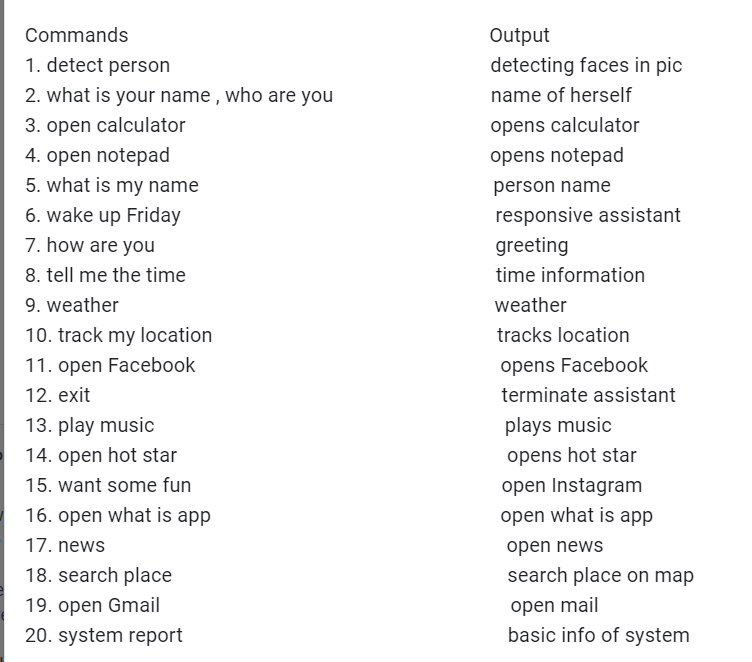
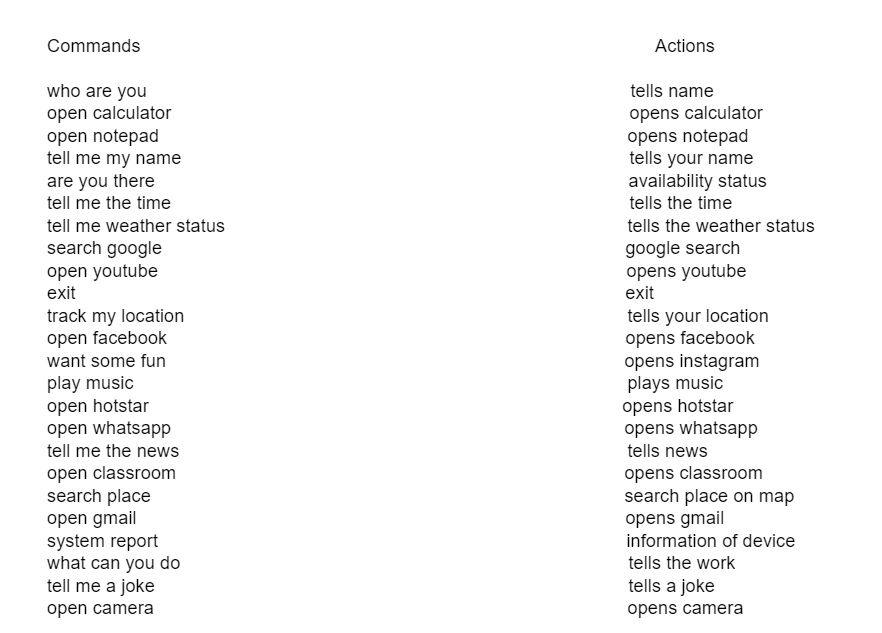
first commit

Changed region(s): [[0.0, 0.0, 0.2753, 1.0], [0.6423, 0.03, 0.9176, 0.9905], [0.3059, 0.1201, 0.4282, 0.1801]]

diff --git a/friday.py b/friday.py
@@ -30,12 +30,13 @@ import cv2
 from googletrans import Translator
 import pyjokes
 import warnings
-import PyPDF2
+#import PyPDF2
 
 
 
 if (success == "False"):
     engine_speak("Unauthorised person")
+    time.sleep(2)
     exit()
 
 
@@ -61,7 +62,7 @@ def engine_speak(text):
     engine.say(text)
     engine.runAndWait()
 
-
+'''
 def alarm():
     import datetime
     from playsound import playsound
@@ -70,7 +71,7 @@ def alarm():
     current_min = now.minute
     if current_hour == 6 and current_min == 40:
        playsound('C:\\Users\\SHIVRAJ\\Desktop\\Jarvis\\jarvis_alarm.wav')
-
+'''
 def wishMe():
     hour = datetime.datetime.now().hour
     if hour>=0 and hour<12:
@@ -156,12 +157,12 @@ def classify_face(im):
     cv2.waitKey(0)
     cv2.destroyAllWindows()
     return face_names
-
+'''
 def detectperson():
     engine_speak("detecting sir")
     classify_face("Test/test.jpg")
     engine_speak("detected")
-
+'''
 def telltime():
     now = datetime.datetime.now()
     current_time = now.strftime("%H:%M")
@@ -310,7 +311,7 @@ def audiobook():
     from_page = pdfReader.getPage(7)
     text = from_page.extractText()
     engine_speak(text)
-'''
+
 def todolist():
     todolist = []
     listtitle = record_audio("what do u want to call the list sir")
@@ -324,17 +325,17 @@ def todolist():
         if(i != ""):
            tasks.append(i)
         print(tasks)
-
+'''
 def respond(voice_data):
-
+    '''
     # 1: detect faces 
-    if there_exists(["detect person","detect","person"]):
+    if there_exists(["detect person"]):
         detectperson()
-
+    '''
     # 2: name(assistant)
-    if there_exists(["what is your name","who are you","your name"]):
+    if there_exists(["who are you"]):
         if person_obj.name:
-            engine_speak(f"My name is {asis_obj.name}")
+            engine_speak(f"My name is {asis_obj.name} i am your virtual assistant")
 
     # 3: calculator
     if there_exists(["open calculator"]):
@@ -345,23 +346,23 @@ def respond(voice_data):
         subprocess.Popen('C:\\Windows\\System32\\notepad.exe')
 
     # 5: name(person)
-    if there_exists(["my name"]):
+    if there_exists(["tell me my name"]):
         engine_speak("Your name must be " + person_obj.name)
 
     # 6: test of friday's speed
-    if there_exists(["friday","are you there"]):
+    if there_exists(["are you there"]):
         engine_speak("always in your service sir")
-
+    '''
     # 7: greeting(assistant)
     if there_exists(["how are you"]):
         engine_speak("I'm very well, thanks for asking " + person_obj.name)
-
+    '''
     # 8: time
     if there_exists(["tell me the time"]):
         telltime()
 
     #9: weather
-    if there_exists(["weather"]):
+    if there_exists(["tell me weather status"]):
         tellweather()
 
     #10: google something
@@ -371,11 +372,11 @@ def respond(voice_data):
     #11: search something on youtube
     if there_exists(["open youtube"]):
         openyoutube()
-
+    '''
     #12: open command prompt
     if there_exists(["cmd"]):
         os.system("start cmd")
-
+    '''
     # 13: exit
     if there_exists(["exit"]):
         engine_speak("enjoy your day sir,bye")
@@ -406,7 +407,7 @@ def respond(voice_data):
         openwhatsapp()
 
     #20: news
-    if there_exists(["news"]):
+    if there_exists(["tell me the news"]):
         news()
 
     #21: classroom
@@ -438,7 +439,7 @@ def respond(voice_data):
     if there_exists(["what can you do"]):
         engine_speak("I can google,open websites,search place on map, for all commands i'm opening commands chart sir")
         work()
-
+    '''
     #26: detect object
     if there_exists(["detect this"]):
         engine_speak("detecting sir")
@@ -446,7 +447,7 @@ def respond(voice_data):
         engine_speak("objects detected")
         clear = lambda: os.system('cls')
         clear()
-
+    '''
 
     #27: tell me a joke
     if there_exists(["tell me a joke"]):
@@ -471,15 +472,11 @@ def respond(voice_data):
     if there_exists(["audiobook"]):
         audiobook()
     '''
-    #30: greet someone
-    if there_exists(["meet sumit"]):
-        voice_data = voice_data.replace("meet","")
-        engine_speak("Hello " + voice_data)
-
+    '''
     #31: make a to do list
     if there_exists(["create a list"]):
         todolist()
-
+    '''
 
 person_obj = person()
 asis_obj = asis()
@@ -488,23 +485,32 @@ person_obj.name = "Shiv"
 wishMe()
 engine = pyttsx3.init()
 
-commands = ["","what is your name","who are you","your name","cmd","search google","open youtube","open calculator","open notepad","my name","friday","are you there","how are you","tell me the time","exit","track my location","open facebook","want some fun","weather","play music","open hotstar","open whatsapp","news","open classroom","search place","open gmail","system report","what can you do","detect this","detect person","detect","person""tell me a joke","open camera","meet sumit","create a list"]
+commands = ["","who are you","open calculator","open notepad","tell me my name","are you there","tell me the time","tell me weather status","search google","open youtube","exit","track my location","open facebook","want some fun","play music","open hotstar","open whatsapp","tell me the news","open classroom","search place","open gmail","system report","what can you do","tell me a joke","open camera"]
 
 newvoice_data = []
 
 while(1):
-    alarm()
+    #alarm()
     voice_data = record_audio("") # get the voice input
 
     if(voice_data not in commands):
-       from nltk.tokenize import sent_tokenize
+       #from nltk.tokenize import sent_tokenize
        import wikipediaapi as wa
+       import nltk
+       from nltk.stem import WordNetLemmatizer
+       from nltk.corpus import stopwords
+
        language = "en"
        testdata = wa.Wikipedia(language)
-       newvoice_data = sent_tokenize(voice_data)
+       #newvoice_data = sent_tokenize(voice_data)
+       lemmatizer = WordNetLemmatizer()
+       words = nltk.word_tokenize(voice_data)
+       words = [lemmatizer.lemmatize(word) for word in words if word not in set(stopwords.words('english'))]
+       newvoice_data = ' '.join(words)
+       print(newvoice_data)
        if(testdata.page(newvoice_data).exists):
           try:
-              engine_speak("connecting to oracle wait for sometime sir")
+              engine_speak("connecting to oracle")
               page = wikipedia.summary(newvoice_data, sentences=2)
               engine_speak(page)
           except wikipedia.exceptions.PageError:
